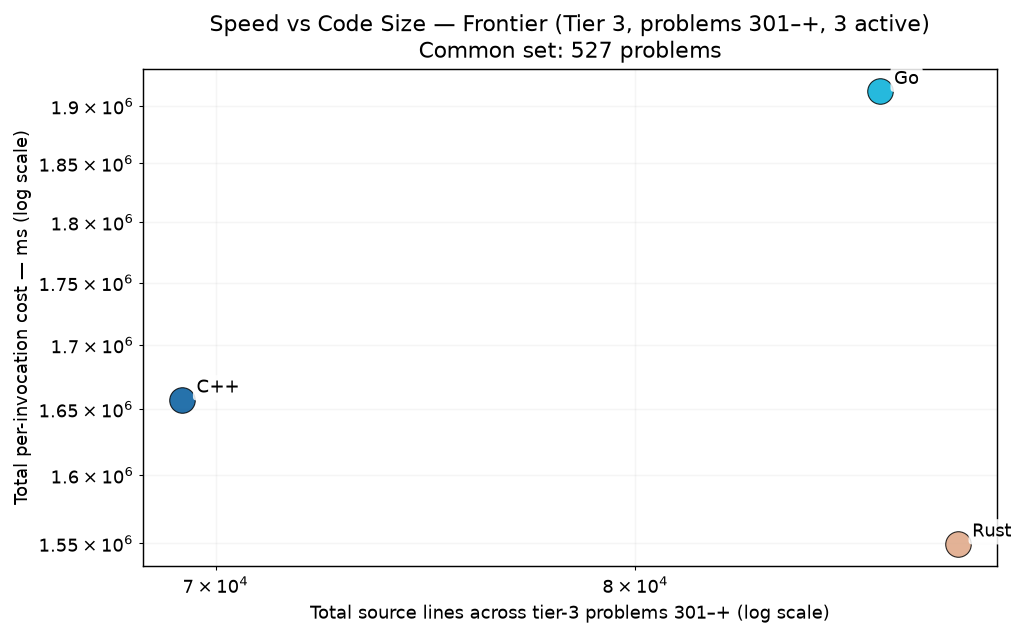
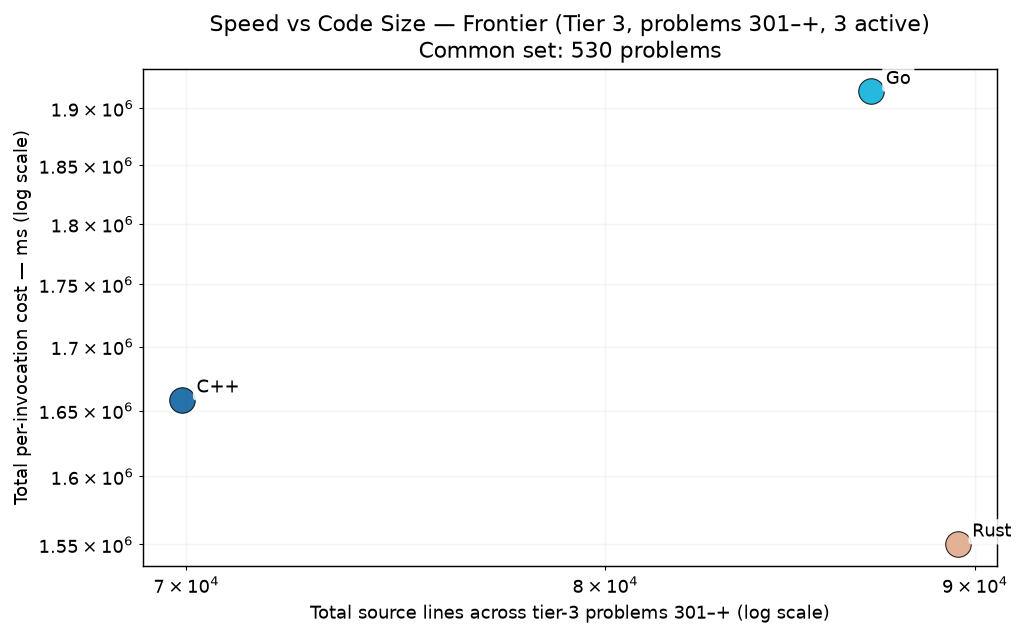
bench p0791,p0890,p0984 (L27 complete)

diff --git a/RESULTS.md b/RESULTS.md
@@ -1,6 +1,6 @@
 # Project Euler — Cross-Language Benchmarks
 
-> **Scope: 4521 in-scope cells across 1007 problems × tiered languages — 3994 measured (88.3% coverage).**
+> **Scope: 4521 in-scope cells across 1007 problems × tiered languages — 4003 measured (88.5% coverage).**
 > The cross-language ranking below is computed over the **200-problem common set** (problems in 1-200 where every language has a passing measurement) — the apples-to-apples Foundation comparison surface.  Per-tier rankings and coverage detail appear further below.
 > Growing carefully — each new problem and language is audited for state-leak
 > safety, verified for answer correctness, and added only when it cleanly fits the
@@ -70,15 +70,15 @@ Same scatter as the Foundation chart, restricted to the tier-2 active languages 
 
 The frontier verification trio — C++, Go, Rust — on problems above 300. 3-way cross-language agreement is the verification protocol (strictly stronger than 2-way; see JOURNEY.md "Tier Reframing" episode for the p254 lesson that motivated it). Python and Zig are explicitly out of this tier — python's wall cost makes it impractical at level 5+, and zig's role caps at Tier 2.
 
-### Per-Invocation Cost (Common Set, 527 of ≤707 problems in scope)
+### Per-Invocation Cost (Common Set, 530 of ≤707 problems in scope)
 
 ![Per-Invocation Cost — Tier 3](charts/per_iter_total_tier3.png)
 
-| Rank | Language | Geomean (527-problem common set) | Total (sum) | Lines of code | vs Fastest |
+| Rank | Language | Geomean (530-problem common set) | Total (sum) | Lines of code | vs Fastest |
 |------|----------|--------------------:|------------:|--------------:|-----------:|
-| 1 | **Rust** | 67.41 ms | 1549.69 s | 88,640 | 1.00× |
-| 2 | **C++** | 69.24 ms | 1657.12 s | 69,259 | 1.03× |
-| 3 | **Go** | 83.45 ms | 1913.10 s | 86,465 | 1.24× |
+| 1 | **Rust** | 67.68 ms | 1550.56 s | 89,505 | 1.00× |
+| 2 | **C++** | 69.60 ms | 1658.35 s | 69,904 | 1.03× |
+| 3 | **Go** | 83.87 ms | 1915.12 s | 87,076 | 1.24× |
 
 ### Speed vs Code Size
 

diff --git a/per_problem/per_problem_0701-0800.md b/per_problem/per_problem_0701-0800.md
@@ -98,7 +98,7 @@ in tier-1 display order (native → managed → interpreted).
 | **p0788** | 3.08 ms | 3.94 ms | 3.68 ms |
 | **p0789** | — | — | — |
 | **p0790** | 192.99 ms | 310.61 ms | 528.88 ms |
-| **p0791** | — | — | — |
+| **p0791** | 921.47 ms | 494.94 ms | 1.71 s |
 | **p0792** | — | — | — |
 | **p0793** | 144.60 ms | 178.46 ms | 229.30 ms |
 | **p0794** | 145.98 ms | 64.06 ms | 52.91 ms |

diff --git a/per_problem/per_problem_0801-0900.md b/per_problem/per_problem_0801-0900.md
@@ -97,7 +97,7 @@ in tier-1 display order (native → managed → interpreted).
 | **p0887** | 24.5 µs | 26.6 µs | 22.7 µs |
 | **p0888** | 493.73 ms | 254.54 ms | 228.23 ms |
 | **p0889** | — | — | — |
-| **p0890** | — | — | — |
+| **p0890** | 292.27 ms | 359.17 ms | 296.99 ms |
 | **p0891** | — | — | — |
 | **p0892** | 61.47 ms | 104.49 ms | 81.65 ms |
 | **p0893** | 9.18 s | 11.41 s | 11.46 s |

diff --git a/per_problem/per_problem_0901-1000.md b/per_problem/per_problem_0901-1000.md
@@ -91,7 +91,7 @@ in tier-1 display order (native → managed → interpreted).
 | **p0981** | 74.69 ms | 25.17 ms | 25.90 ms |
 | **p0982** | 4.18 ms | 3.32 ms | 70.20 ms |
 | **p0983** | — | — | — |
-| **p0984** | — | — | — |
+| **p0984** | 19.46 ms | 14.12 ms | 16.49 ms |
 | **p0985** | <1 µs | <1 µs~ | 1.4 µs~ |
 | **p0986** | — | — | — |
 | **p0987** | 833.91 ms | 861.49 ms | 5.16 s |
